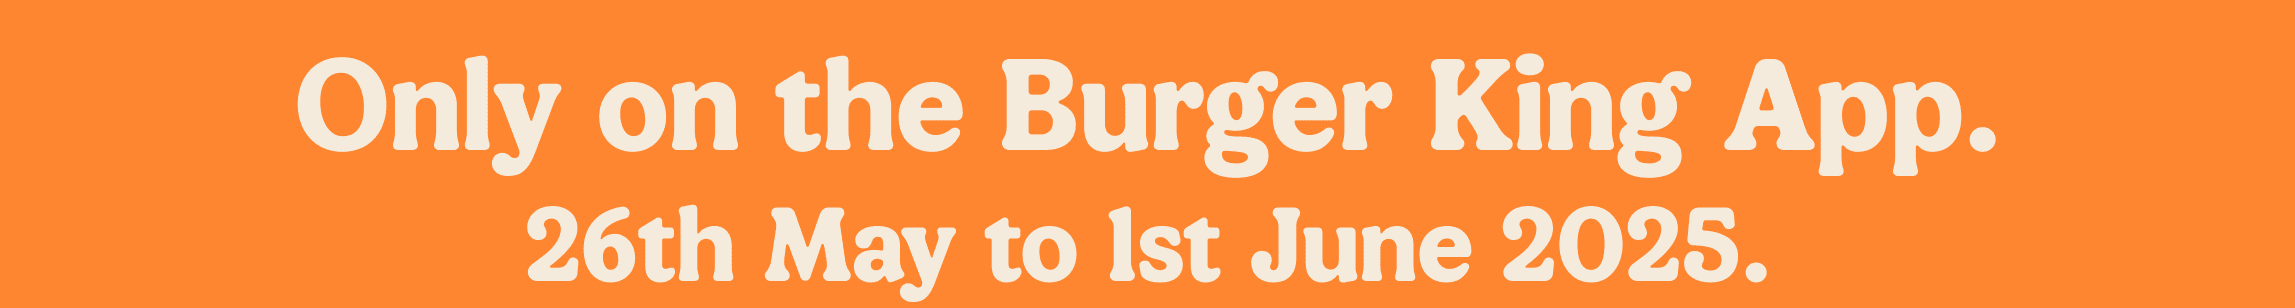
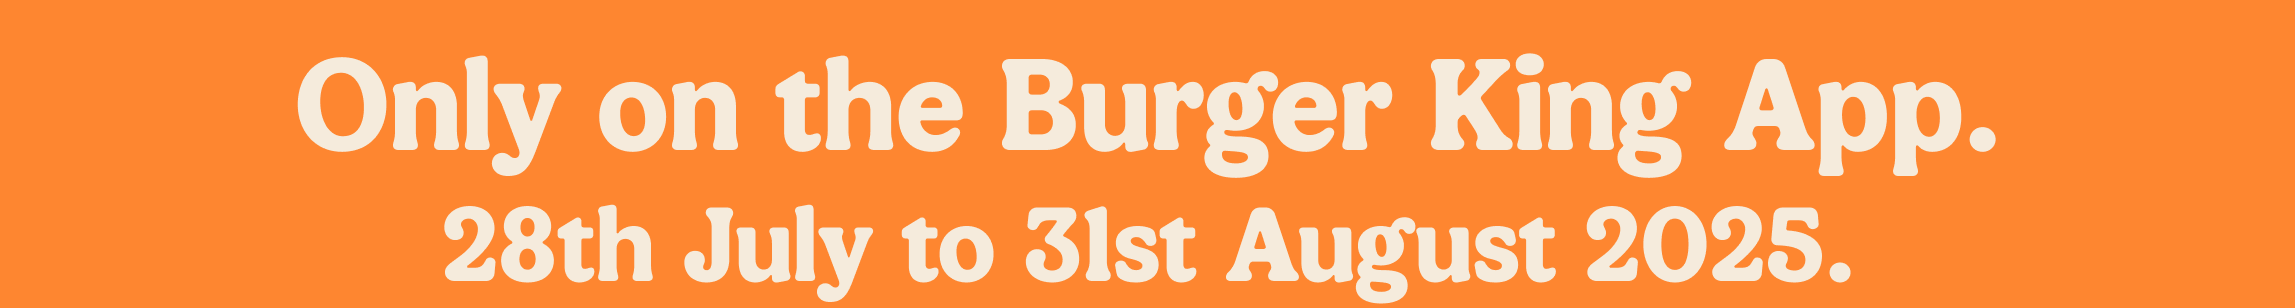
committtt

Changed region(s): [[0.1856, 0.6721, 0.8044, 0.9935]]

diff --git a/finalbuildfiles/2025/OctNov/BKkidsEatFree/index.html b/finalbuildfiles/2025/OctNov/BKkidsEatFree/index.html
@@ -142,7 +142,7 @@ body {
     <script src="https://cdn.jsdelivr.net/npm/canvas-confetti@1.6.0/dist/confetti.browser.min.js"></script>
     <script>
       //GAM
-      window.trackingPath = "https://tech-iion.github.io/advertiser-creatives/finalbuildfiles/BKKidsEatFree/assets";
+      window.trackingPath = "https://tech-iion.github.io/advertiser-creatives/finalbuildfiles/July2025/BKkidsEatFree/assets";
       window.trackingType = "https://staging-dmp-producer.iion.io/tracker/impressions?platform=GAM&campaign_id=%ebuy!&publisher_id=%epid!&creative_id=%ecid!&maid=%%ADVERTISING_IDENTIFIER_PLAIN%%&page_url=%%SITE%%&height=%%HEIGHT%%&width=%%WIDTH%%&video_min_duration=%%VIDEO_DURATION%%&gdpr=${GDPR}&gdpr_consent=${GDPR_CONSENT_XXXX}&demand_id=%eadv!&line_item=%eaid!&event_name=";
       window.setTracker = "%%CLICK_URL_UNESC%%";
       window.landingPageUrl = window.setTracker + "https://ad.doubleclick.net/ddm/trackclk/N1258665.4053762ENTHUSIASTGAMING/B33226306.419868823;dc_trk_aid=612629266;dc_trk_cid=232310814;dc_lat=;dc_rdid=;tag_for_child_directed_treatment=;tfua=;gdpr=${GDPR};gdpr_consent=${GDPR_CONSENT_755};gpp=${GPP_STRING_755};gpp_sid=${GPP_SID};ltd=;dc_tdv=1"
